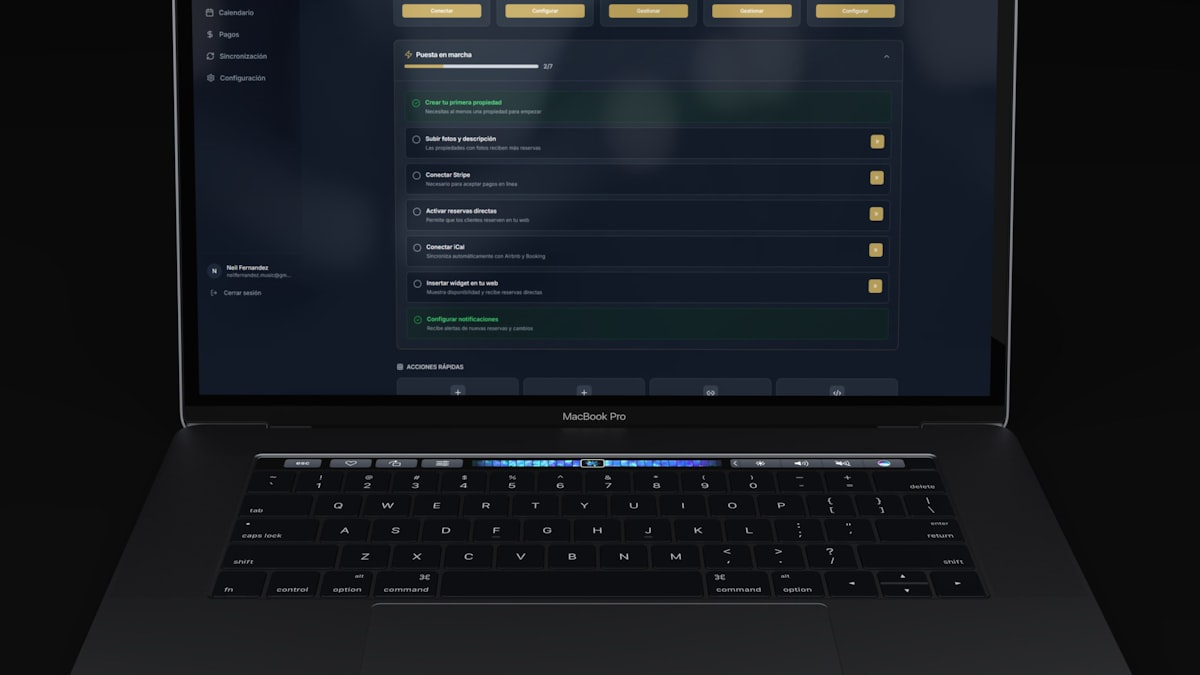
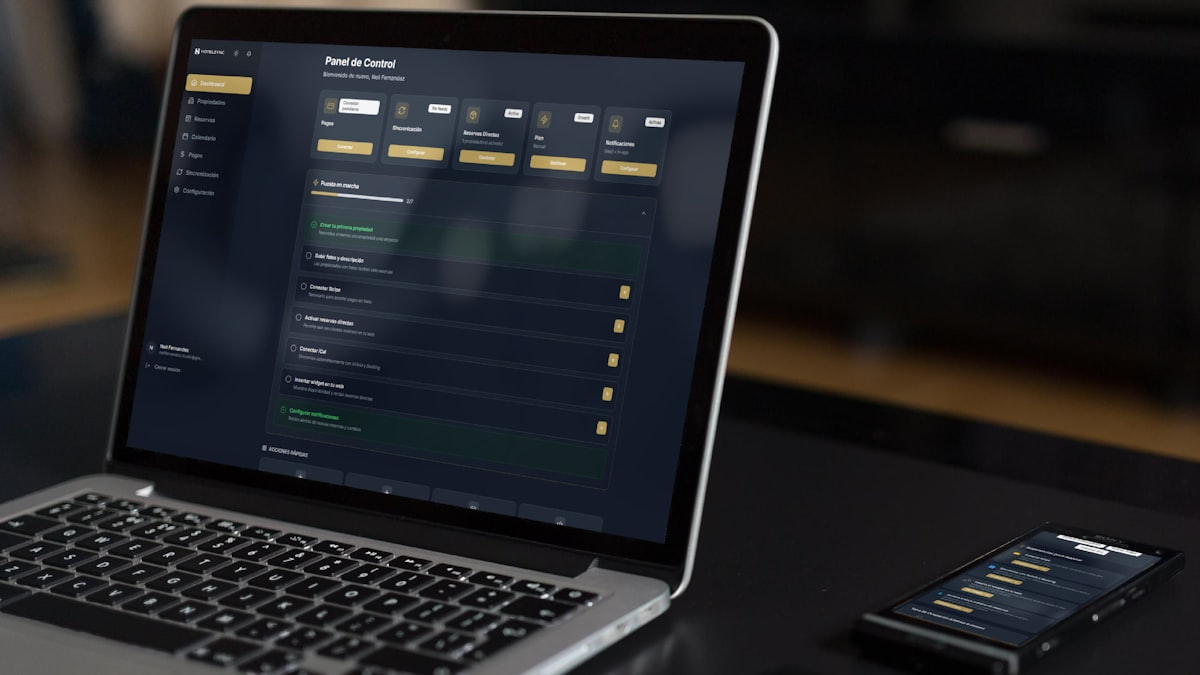
Replace collection edge images

diff --git a/src/lib/collections.ts b/src/lib/collections.ts
@@ -33,7 +33,7 @@ export const collections = [
     description: '写作、阅读、工具和方法相关记录，保留可复用的学习过程与经验。',
     image: {
       src: '/images/collections/learn.jpg',
-      alt: '夜间桌面上的平板、书本和数字时钟，代表学习与复盘记录',
+      alt: '平板上用手写笔记录清单，代表学习与复盘记录',
     },
     posts: ['astro-cloudflare-workflow', 'private-blog-editing-checklist'],
     runtimeTags: ['学习'],
